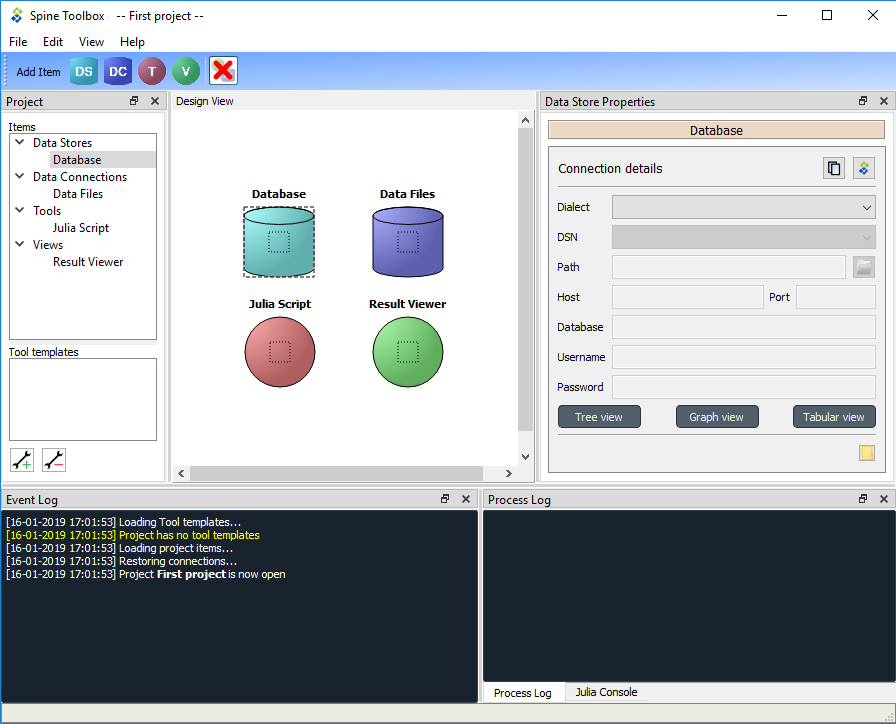
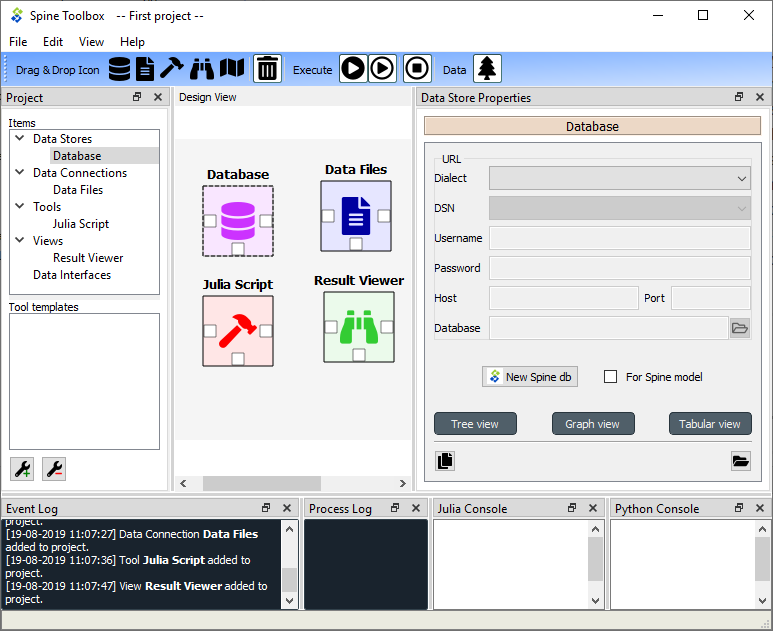
Add Project Items to User Guide. Re #348

diff --git a/docs/source/main_window.rst b/docs/source/main_window.rst
@@ -1,6 +1,9 @@
 .. Main Window documentation
    Created 16.1.2019
 
+.. |trash| image:: ../../spinetoolbox/ui/resources/menu_icons/trash-alt.svg
+            :width: 16
+
 ***********
 Main Window
 ***********
@@ -12,28 +15,29 @@ The first time you start the application you will see the main window like this.
 .. image:: img/main_window_no_project.png
    :align: center
 
-The application main window contains five dock widgets (*Project*, *Properties*, *Event Log*, *Process Log*, and *Julia
-Console*), an *Add Item* tool bar, a project *Design view*, and a menu bar with *File*, *Edit*, *View*, and *Help*
-menus. The Project dock widget contains a list of project items and Tool templates that are available in your
-project. The Properties dock widget shows the properties of the selected project item. Event Log shows messages
-depending on what you do in Spine Toolbox. Process Log shows messages from processes that are spawned by the
-application, i.e. it shows the stdout and stderr streams of GAMS, Julia (if running without the Julia REPL, see
-``Settings`` section in the User Guide), and executable programs. Julia Console provides an embedded Julia REPL.
-If you choose to execute Julia tools in REPL, the Julia code will be included into the Julia REPL in the Julia
-Console and executed there. You can interact with the Julia REPL in the Julia Console like you would with any
-Julia REPL that you use.
+The application main window contains six dock widgets (*Project*, *Properties*, *Event Log*, *Process Log*, *Julia
+Console*, and *Python Console*), an *Add Item* tool bar, a project *Design view*, and a menu bar with *File*,
+*Edit*, *View*, and *Help* menus. The Project dock widget contains a list of project items and Tool templates
+that are available in your project. The Properties dock widget shows the properties of the selected project item.
+Event Log shows messages depending on what you do in Spine Toolbox. Process Log shows messages from processes that
+are spawned by the application, i.e. it shows the stdout and stderr streams of GAMS, Julia (if running without
+the Julia REPL, see :ref:`Settings` section in the User Guide), and executable programs. Julia and Python Consoles
+provide an embedded Julia REPL and a Python interpreter. If you choose to execute Julia tools in REPL, the Julia
+code will be included into the Julia REPL in the Julia Console and executed there. You can interact with the Julia
+REPL in the Julia Console like you would with any Julia REPL that you use.
 
-.. tip:: You can configure the Julia version you want to use in ``File->Settings``.
+.. tip:: You can configure the Julia ja Python versions you want to use in ``File->Settings``.
 
 The menu bar in the top of the application contains *File*, *Edit*, *View*, and *Help* menus. In the *File* menu
 you can create a new project, save the project, open an existing project, rename your project, and open the
-application Settings. Spine Toolbox is project based, which means that you need to create a new project or
-open an existing one before you can do anything. You can create a new project by selecting ``File->New...``
-from the menu bar. *Add Item* tool bar contains four draggable items *DS*, *DC*, *T*, and *V*, which represent
-the available project item types. It also has a button with a red *X*, which can be used to remove all items from your
-project. *Design view* is where you build your project using project items. You can add a new project item by
-pointing your mouse cursor on any of the draggable items in the *Add Item* tool bar, then click-and-drag the
-project item on to the *Design view*. After this you will be presented a dialog, which asks you to fill in basic
+application Settings among other things. Spine Toolbox is project based, which means that you need to create
+a new project or open an existing one before you can do anything. You can create a new project by selecting
+``File->New...`` from the menu bar. *Drag & Drop Icon* tool bar contains the available
+:ref:`project item <Project Items>` types. The |trash| button can be used to remove all items from your
+project. The *Execute* icons control the execution of the items in the *Design view* where you build your project
+using the project items. You can add a new project item by pointing your mouse cursor on any of the draggable items
+in the *Drag & Drop Icon* tool bar, then click-and-drag the item on to the *Design view*.
+After this you will be presented a dialog, which asks you to fill in basic
 information about the new project item (name, description, etc.).
 
 The main window is very customizable so you can e.g. close the dock widgets that you do not need and/or you can

diff --git a/docs/source/project_items.rst b/docs/source/project_items.rst
@@ -1,0 +1,64 @@
+.. Project items documentation
+   Created 19.8.2019
+
+.. |data_connection| image:: ../../spinetoolbox/ui/resources/project_item_icons/file-alt.svg
+   :width: 16
+.. |data_interface| image:: ../../spinetoolbox/ui/resources/project_item_icons/map-solid.svg
+   :width: 16
+.. |data_store| image:: ../../spinetoolbox/ui/resources/project_item_icons/database.svg
+   :width: 16
+.. |execute| image:: ../../spinetoolbox/ui/resources/project_item_icons/play-circle-solid.svg
+   :width: 16
+.. |tool| image:: ../../spinetoolbox/ui/resources/project_item_icons/hammer.svg
+   :width: 16
+.. |view| image:: ../../spinetoolbox/ui/resources/project_item_icons/binoculars.svg
+   :width: 16
+
+.. _Project Items:
+
+*************
+Project Items
+*************
+
+Project items in the *Design view* make up the graph (directed acyclic graph, DAG)
+that is executed when the |execute| button is pressed.
+
+See :ref:`Executing Tools` for more information on how the DAG is processed by Toolbox.
+
+The following items are currently available:
+
+Data Store |data_store|
+-----------------------
+
+A Data store item represents a connection to a Spine model database.
+Currently, the item supports sqlite and mysql dialects.
+The database can be accessed and modified using :ref:`data store views <Data store views>`
+available from the item's properties or from a right-click context menu.
+
+Data Connection |data_connection|
+---------------------------------
+
+A Data connection item provides access to data files.
+It also provides access to the :ref:`Datapackage editor <Spine datapackage editor>`.
+
+Tool |tool|
+-----------
+
+Tool is the heart of a DAG. It is usually the actual model to be executed in the toolbox
+but can be an arbitrary script or executable as well.
+A tool is specified by its :ref:`template <Tool template editor>`.
+
+View |view|
+-----------
+
+A View item is meant for inspecting data from multiple sources using the :ref:`data store views <Data store views>`.
+Note that the data is opened in read-only mode so modifications are not possible from the View item.
+
+.. note::
+
+   Currently, only *Tree view* supports multiple databases.
+
+Data Interface |data_interface|
+-------------------------------
+
+This item provides mapping from tabulated data (comma separated values, Excel) to the Spine data model.

diff --git a/docs/source/index.rst b/docs/source/index.rst
@@ -9,7 +9,7 @@ computation tasks, such as energy system models.
 You can either start reading from the first page onwards or go straight to the :ref:`Getting Started` section to get you
 started quickly. If you need help understanding the terms we use throughout the app and this User Guide, please
 check the :ref:`Terminology` section. If you want to contribute to this project, please see the :ref:`Contribution Guide`.
-The last section contains the complete :ref:`code reference <Source Code Documentation>` of Spine Toolbox.
+The last section contains the complete code reference of Spine Toolbox.
 
 .. toctree::
    :maxdepth: 1
@@ -17,6 +17,7 @@ The last section contains the complete :ref:`code reference <Source Code Documen
 
    tutorials
    main_window
+   project_items
    tool_template_editor
    executing_tools
    settings
@@ -28,7 +29,6 @@ The last section contains the complete :ref:`code reference <Source Code Documen
    terminology
    dependencies
    contribution_guide
-
 
 Indices and tables
 ==================

diff --git a/docs/source/tool_template_editor.rst b/docs/source/tool_template_editor.rst
@@ -1,6 +1,8 @@
 .. Tool template editor documentation
    Created 15.1.2019
 
+.. _Tool template editor:
+
 ********************
 Tool template editor
 ********************

diff --git a/docs/source/executing_tools.rst b/docs/source/executing_tools.rst
@@ -1,6 +1,8 @@
 .. Executing Tools (Tool templates) documentation
    Created 16.1.2019
 
+.. _Executing Tools:
+
 ***************
 Executing Tools
 ***************

diff --git a/docs/source/spine_datapackage_editor.rst b/docs/source/spine_datapackage_editor.rst
@@ -1,3 +1,5 @@
+.. _Spine datapackage editor:
+
 ************************
 Spine datapackage editor
 ************************

diff --git a/docs/source/settings.rst b/docs/source/settings.rst
@@ -1,6 +1,8 @@
 .. Settings form documentation
    Created 14.1.2019
 
+.. _Settings:
+
 ********
 Settings
 ********

diff --git a/docs/source/data_store_views.rst b/docs/source/data_store_views.rst
@@ -1,3 +1,5 @@
+.. _Data store views:
+
 ****************
 Data store views
 ****************
